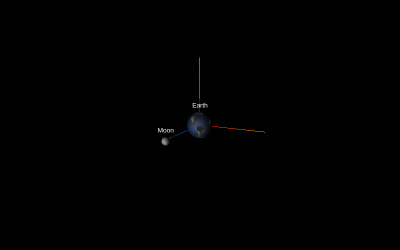
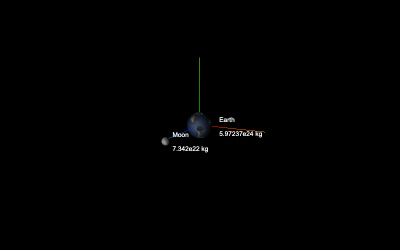
CSS2DRenderer: Introduce CSS2DObject.center (#25673)
* CSS2DRenderer: Introduce CSS2DObject.center

* Update css2d_label screenshot

* fix gui

diff --git a/examples/css2d_label.html b/examples/css2d_label.html
@@ -85,11 +85,10 @@
 				camera = new THREE.PerspectiveCamera( 45, window.innerWidth / window.innerHeight, 0.1, 200 );
 				camera.position.set( 10, 5, 20 );
 				camera.layers.enableAll();
-				camera.layers.toggle( 1 );
 
 				scene = new THREE.Scene();
 
-				const dirLight = new THREE.DirectionalLight( 0xffffff );
+				const dirLight = new THREE.DirectionalLight( 0xffffff, 1 );
 				dirLight.position.set( 0, 0, 1 );
 				dirLight.layers.enableAll();
 				scene.add( dirLight );
@@ -128,36 +127,44 @@
 				const earthDiv = document.createElement( 'div' );
 				earthDiv.className = 'label';
 				earthDiv.textContent = 'Earth';
-				earthDiv.style.marginTop = '-1em';
+				earthDiv.style.backgroundColor = 'transparent';
+
 				const earthLabel = new CSS2DObject( earthDiv );
-				earthLabel.position.set( 0, EARTH_RADIUS, 0 );
+				earthLabel.position.set( 1.5 * EARTH_RADIUS, 0, 0 );
+				earthLabel.center.set( 0, 1 );
 				earth.add( earthLabel );
 				earthLabel.layers.set( 0 );
 
 				const earthMassDiv = document.createElement( 'div' );
 				earthMassDiv.className = 'label';
 				earthMassDiv.textContent = '5.97237e24 kg';
-				earthMassDiv.style.marginTop = '-1em';
+				earthMassDiv.style.backgroundColor = 'transparent';
+
 				const earthMassLabel = new CSS2DObject( earthMassDiv );
-				earthMassLabel.position.set( 0, - 2 * EARTH_RADIUS, 0 );
+				earthMassLabel.position.set( 1.5 * EARTH_RADIUS, 0, 0 );
+				earthMassLabel.center.set( 0, 0 );
 				earth.add( earthMassLabel );
 				earthMassLabel.layers.set( 1 );
 
 				const moonDiv = document.createElement( 'div' );
 				moonDiv.className = 'label';
 				moonDiv.textContent = 'Moon';
-				moonDiv.style.marginTop = '-1em';
+				moonDiv.style.backgroundColor = 'transparent';
+
 				const moonLabel = new CSS2DObject( moonDiv );
-				moonLabel.position.set( 0, MOON_RADIUS, 0 );
+				moonLabel.position.set( 1.5 * MOON_RADIUS, 0, 0 );
+				moonLabel.center.set( 0, 1 );
 				moon.add( moonLabel );
 				moonLabel.layers.set( 0 );
 
 				const moonMassDiv = document.createElement( 'div' );
 				moonMassDiv.className = 'label';
 				moonMassDiv.textContent = '7.342e22 kg';
-				moonMassDiv.style.marginTop = '-1em';
+				moonMassDiv.style.backgroundColor = 'transparent';
+
 				const moonMassLabel = new CSS2DObject( moonMassDiv );
-				moonMassLabel.position.set( 0, - 2 * MOON_RADIUS, 0 );
+				moonMassLabel.position.set( 1.5 * MOON_RADIUS, 0, 0 );
+				moonMassLabel.center.set( 0, 0 );
 				moon.add( moonMassLabel );
 				moonMassLabel.layers.set( 1 );
 
@@ -218,10 +225,14 @@
 
 				gui = new GUI();
 
+				gui.title( 'Camera Layers' );
+
 				gui.add( layers, 'Toggle Name' );
 				gui.add( layers, 'Toggle Mass' );
 				gui.add( layers, 'Enable All' );
 				gui.add( layers, 'Disable All' );
+
+				gui.open();
 
 			}
 

diff --git a/examples/jsm/renderers/CSS2DRenderer.js b/examples/jsm/renderers/CSS2DRenderer.js
@@ -1,6 +1,7 @@
 import {
 	Matrix4,
 	Object3D,
+	Vector2,
 	Vector3
 } from 'three';
 
@@ -18,6 +19,8 @@ class CSS2DObject extends Object3D {
 		this.element.style.userSelect = 'none';
 
 		this.element.setAttribute( 'draggable', false );
+
+		this.center = new Vector2( 0.5, 0.5 ); // ( 0, 0 ) is the lower left; ( 1, 1 ) is the top right
 
 		this.addEventListener( 'removed', function () {
 
@@ -40,6 +43,8 @@ class CSS2DObject extends Object3D {
 		super.copy( source, recursive );
 
 		this.element = source.element.cloneNode( true );
+
+		this.center = source.center;
 
 		return this;
 
@@ -125,7 +130,7 @@ class CSS2DRenderer {
 
 					const element = object.element;
 
-					element.style.transform = 'translate(-50%,-50%) translate(' + ( _vector.x * _widthHalf + _widthHalf ) + 'px,' + ( - _vector.y * _heightHalf + _heightHalf ) + 'px)';
+					element.style.transform = 'translate(' + ( - 100 * object.center.x ) + '%,' + ( - 100 * object.center.y ) + '%)' +  'translate(' + ( _vector.x * _widthHalf + _widthHalf ) + 'px,' + ( - _vector.y * _heightHalf + _heightHalf ) + 'px)';
 
 					if ( element.parentNode !== domElement ) {
 
